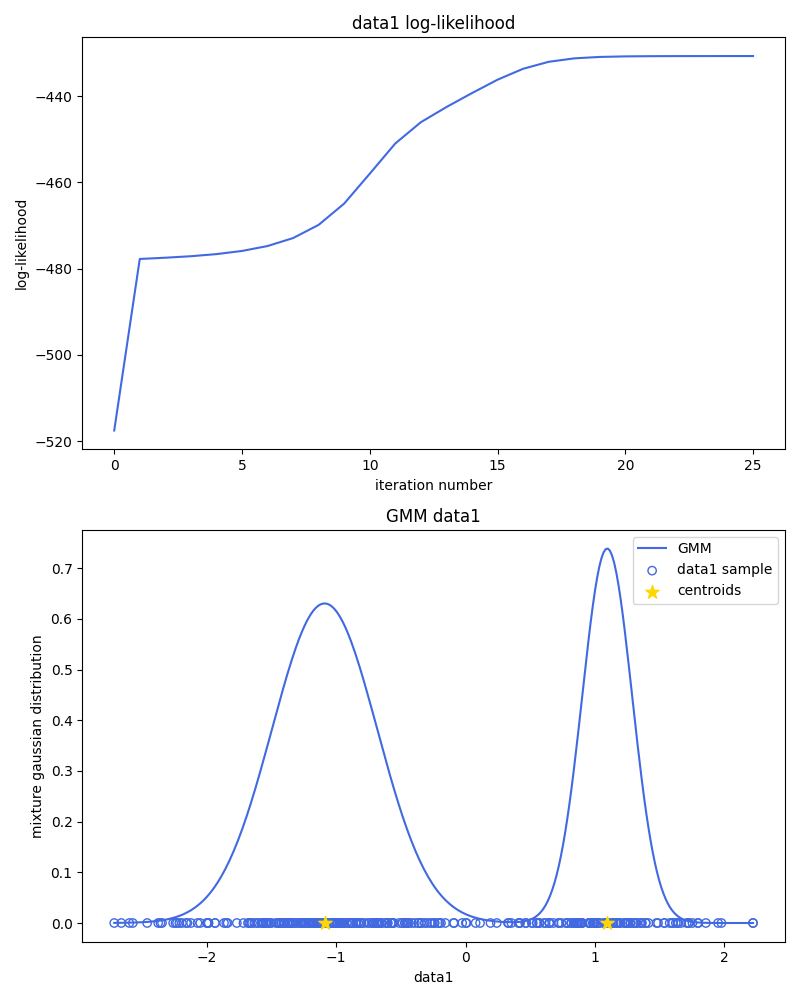
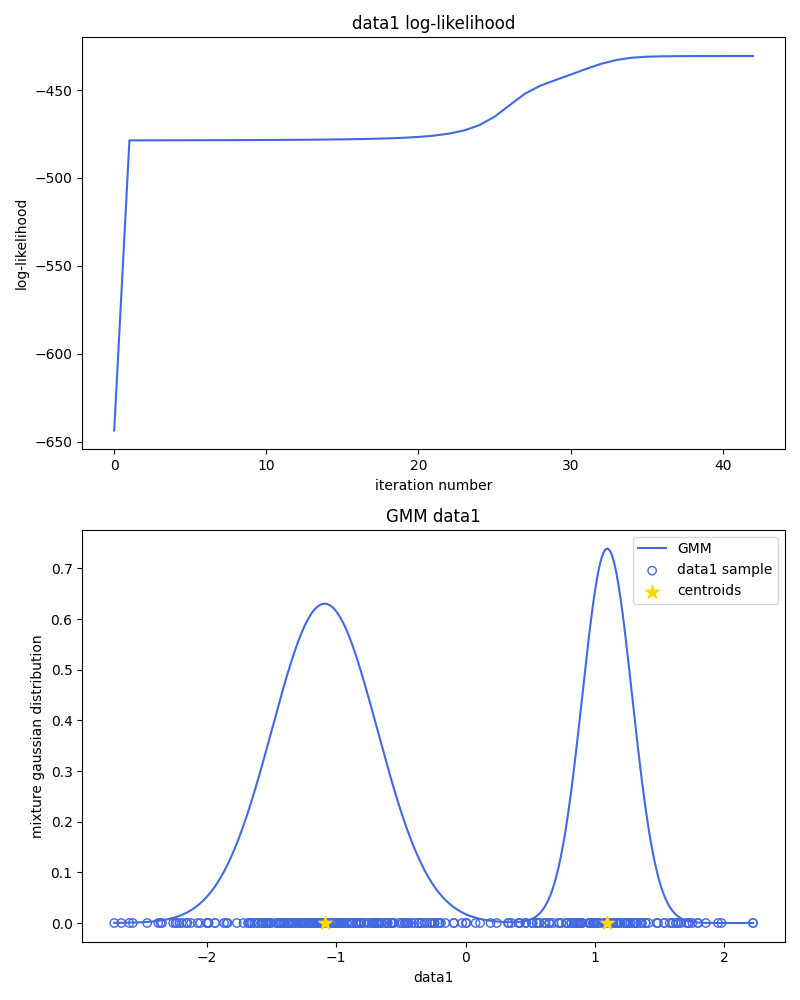
argparseを追加

diff --git a/ex7/r_tanaka/main.py b/ex7/r_tanaka/main.py
@@ -50,7 +50,7 @@ def calc_mixture_gaussian(input, pi, mu, sigma):
 
     Args:
         input (np.ndarray): input data. shape = (n, dim).
-        pi (np.ndarray): mixing coefficients of each class. shape = (k, ). 
+        pi (np.ndarray): mixing coefficients of each class. shape = (k, ).
         mu (np.ndarray): means of distributions. shape = (k, dim).
         sigma (np.ndarray): variances of distributions. shape = (k, dim, dim).
 
@@ -72,7 +72,7 @@ def calc_loglikelihood(input, pi, mu, sigma):
 
     Args:
         input (np.ndarray): input data. shape = (n, dim).
-        pi (np.ndarray): mixing coefficients of each class. shape = (k, ). 
+        pi (np.ndarray): mixing coefficients of each class. shape = (k, ).
         mu (np.ndarray): means of distributions. shape = (k, dim).
         sigma (np.ndarray): variances of distributions. shape = (k, dim, dim).
 
@@ -183,124 +183,85 @@ def k_means(input, k, max_iter=500):
 
 
 def main():
+    fname = args.fname
+    k = args.mixed_number
+
     # read csv files as DataFrame
-    df_data1 = pd.read_csv("data1.csv", header=None)
-    df_data2 = pd.read_csv("data2.csv", header=None)
-    df_data3 = pd.read_csv("data3.csv", header=None)
+    df_data = pd.read_csv(fname + ".csv", header=None)
 
     # convert DataFrame form to array form
-    data1 = df_data1.to_numpy()
-    data2 = df_data2.to_numpy()
-    data3 = df_data3.to_numpy()
+    data = df_data.to_numpy()
 
     # set drawing area
     plt.rcParams["figure.figsize"] = (8, 10)
 
-    # fitting data1
-    # determine initial parameters for data1
-    n = data1.shape[0]
-    dim = data1.shape[1]
-    k = 2
+    # fitting data
+    # determine initial parameters
+    n = data.shape[0]
+    dim = data.shape[1]
     pi = np.full(k, 1 / k)
     mu = np.random.randn(k, dim)
     sigma = np.array([np.eye(dim) for _ in range(k)])
 
-    # apply em-algorithm to data1
-    loglikelihood1, pi1, mu1, sigma1 = em_algorithm(data1, pi, mu, sigma)
+    # run em-algorithm & update parameters
+    loglikelihood, pi, mu, sigma = em_algorithm(data, pi, mu, sigma)
 
-    # set drawing area for data1
-    fig1, ax1 = plt.subplots(2, 1)
-    # plot log-likelihood
-    ax1[0].plot(np.arange(0, len(loglikelihood1), 1), loglikelihood1, c='royalblue')
-    ax1[0].set(title="data1 log-likelihood", xlabel="iteration number", ylabel="log-likelihood")
-    # plot scatter & mixture gaussian distribution
-    x = np.linspace(np.min(data1[:, 0]), np.max(data1[:, 0]), n)
-    pdfs = np.zeros((n, k))
-    for i in range(k):
-        pdfs[:, i] = pi1[i] * norm.pdf(x, loc=mu1[i], scale=sigma1[i])
-    ax1[1].scatter(data1, np.zeros(len(data1)), facecolor="None", edgecolors="royalblue", label="data1 sample")
-    ax1[1].scatter(mu1, np.zeros(len(mu1)), s=100, marker="*", c="gold", label="centroids")
-    ax1[1].plot(x, np.sum(pdfs, axis=1), label="GMM", c='royalblue')
-    ax1[1].set(title="GMM data1", xlabel="data1", ylabel="mixture gaussian distribution")
-    ax1[1].legend()
+    if dim == 1:
+        # set drawing area for data1
+        fig, ax = plt.subplots(2, 1)
+        # plot log-likelihood
+        ax[0].plot(np.arange(0, len(loglikelihood), 1), loglikelihood, c='royalblue')
+        ax[0].set(title="data1 log-likelihood", xlabel="iteration number", ylabel="log-likelihood")
+        # plot scatter & mixture gaussian distribution
+        x = np.linspace(np.min(data[:, 0]), np.max(data[:, 0]), n)
+        pdfs = np.zeros((n, k))
+        for i in range(k):
+            pdfs[:, i] = pi[i] * norm.pdf(x, loc=mu[i], scale=sigma[i])
+        ax[1].scatter(data, np.zeros(len(data)), facecolor="None", edgecolors="royalblue", label="data1 sample")
+        ax[1].scatter(mu, np.zeros(len(mu)), s=100, marker="*", c="gold", label="centroids")
+        ax[1].plot(x, np.sum(pdfs, axis=1), label="GMM", c='royalblue')
+        ax[1].set(title="GMM data1", xlabel="data1", ylabel="mixture gaussian distribution")
+        ax[1].legend()
 
-    # fitting data2
-    # determine initial parameters for data2
-    n = data2.shape[0]
-    dim = data2.shape[1]
-    k = 3
-    pi = np.full(k, 1 / k)
-    centroids = k_means(data2, k)
-    mu = centroids
-    # mu = np.random.randn(k, dim)
-    sigma = np.array([np.eye(dim) for _ in range(k)])
+        fig.tight_layout()
+        fig.savefig("data1.png")
 
-    # apply em-algorithm to data2
-    loglikelihood2, pi2, mu2, sigma2 = em_algorithm(data2, pi, mu, sigma)
+    if dim == 2:
+        # set drawing area for data2&3
+        fig, ax = plt.subplots(2, 1)
+        ax[0] = plt.subplot2grid((3, 3), (0, 0), colspan=3)
+        ax[1] = plt.subplot2grid((3, 3), (1, 0), rowspan=2, colspan=3)
+        # plot log-likelihood
+        ax[0].plot(np.arange(0, len(loglikelihood), 1), loglikelihood, c='royalblue')
+        ax[0].set(title=fname + " log-likelihood", xlabel="iteration number", ylabel="log-likelihood")
+        # plot scatter & mixture gaussian distribution
+        x = np.linspace(np.min(data[:, 0]), np.max(data[:, 0]), n)
+        y = np.linspace(np.min(data[:, 1]), np.max(data[:, 1]), n)
+        X, Y = np.meshgrid(x, y)
+        lines = np.dstack((X, Y))
+        Z = np.zeros((n, n))
+        for i in range(n):
+            Z[i] = np.array([np.sum(calc_mixture_gaussian(lines[i, :], pi, mu, sigma), axis=0)])
+        ax[1].scatter(mu[:, 0], mu[:, 1], s=100, marker="*", c="r", label="centroid")
+        ax[1].contour(X, Y, Z, cmap="rainbow")
+        ax[1].scatter(df_data[0], df_data[1], facecolor="None", edgecolors="royalblue", label=fname + " sample")
+        ax[1].set(title=fname)
+        ax[1].legend()
 
-    # set drawing area for data2
-    fig2, ax2 = plt.subplots(2, 1)
-    ax2[0] = plt.subplot2grid((3, 3), (0, 0), colspan=3)
-    ax2[1] = plt.subplot2grid((3, 3), (1, 0), rowspan=2, colspan=3)
-    # plot log-likelihood
-    ax2[0].plot(np.arange(0, len(loglikelihood2), 1), loglikelihood2, c='royalblue')
-    ax2[0].set(title="data2 log-likelihood", xlabel="iteration number", ylabel="log-likelihood")
-    # plot scatter & mixture gaussian distribution
-    x = np.linspace(np.min(data2[:, 0]), np.max(data2[:, 0]), n)
-    y = np.linspace(np.min(data2[:, 1]), np.max(data2[:, 1]), n)
-    X, Y = np.meshgrid(x, y)
-    lines = np.dstack((X, Y))
-    Z = np.zeros((n, n))
-    for i in range(n):
-        Z[i] = np.array([np.sum(calc_mixture_gaussian(lines[i, :], pi2, mu2, sigma2), axis=0)])
-    ax2[1].scatter(mu2[:, 0], mu2[:, 1], s=100, marker="*", c="r", label="centroid")
-    ax2[1].contour(X, Y, Z, cmap="rainbow")
-    ax2[1].scatter(df_data2[0], df_data2[1], facecolor="None", edgecolors="royalblue", label="data2 sample")
-    ax2[1].set(title="data2")
-    ax2[1].legend()
-
-    # fitting data3
-    # determine initial parameters for data3
-    n = data3.shape[0]
-    dim = data3.shape[1]
-    k = 3
-    pi = np.full(k, 1 / k)
-    centroids = k_means(data3, k)
-    mu = centroids
-    # mu = np.random.randn(k, dim)
-    sigma = np.array([np.eye(dim) for _ in range(k)])
-
-    # apply em-algorithm to data3
-    loglikelihood3, pi3, mu3, sigma3 = em_algorithm(data2, pi, mu, sigma)
-
-    # set drawing area for data3
-    fig3, ax3 = plt.subplots(2, 1)
-    ax3[0] = plt.subplot2grid((3, 3), (0, 0), colspan=3)
-    ax3[1] = plt.subplot2grid((3, 3), (1, 0), rowspan=2, colspan=3)
-    # plot log-likelihood
-    ax3[0].plot(np.arange(0, len(loglikelihood3), 1), loglikelihood3, c='royalblue')
-    ax3[0].set(title="data3 log-likelihood", xlabel="iteration number", ylabel="log-likelihood")
-    # plot scatter & mixture gaussian distribution
-    x = np.linspace(np.min(data3[:, 0]), np.max(data3[:, 0]), n)
-    y = np.linspace(np.min(data3[:, 1]), np.max(data3[:, 1]), n)
-    X, Y = np.meshgrid(x, y)
-    lines = np.dstack((X, Y))
-    Z = np.zeros((n, n))
-    for i in range(n):
-        Z[i] = np.array([np.sum(calc_mixture_gaussian(lines[i, :], pi3, mu3, sigma3), axis=0)])
-    ax3[1].scatter(mu3[:, 0], mu3[:, 1], s=100, marker="*", c="r", label="centroid")
-    ax3[1].contour(X, Y, Z, cmap="rainbow")
-    ax3[1].scatter(df_data3[0], df_data3[1], facecolor="None", edgecolors="royalblue", label="data3 sample")
-    ax3[1].set(title="data3")
-    ax3[1].legend()
-
-    fig1.tight_layout()
-    fig2.tight_layout()
-    fig3.tight_layout()
-    fig1.savefig("data1.png")
-    fig2.savefig("data2.png")
-    fig3.savefig("data3.png")
+        fig.tight_layout()
+        fig.savefig(fname + ".png")
 
 
 if __name__ == "__main__":
+    # process args
+    parser = argparse.ArgumentParser(description="Fitting with GMM.")
+    parser.add_argument("fname", type=str, help="Load filename (.csv)")
+    parser.add_argument(
+        "-k",
+        "--mixed_number",
+        type=int,
+        help="mixed number of GMM (optional, Default=2)",
+        default=2,
+    )
+    args = parser.parse_args()
     main()
